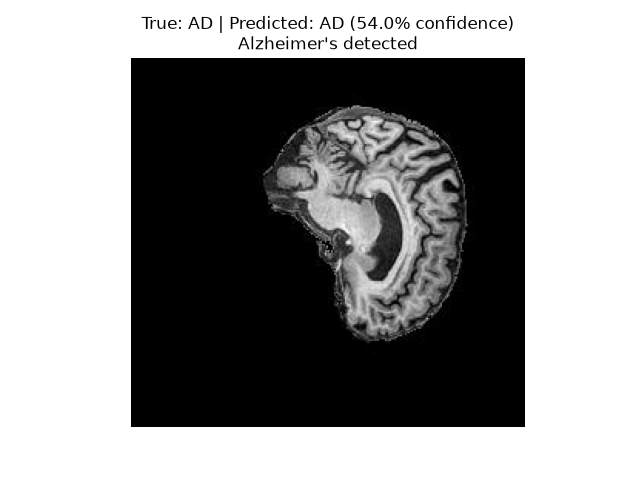
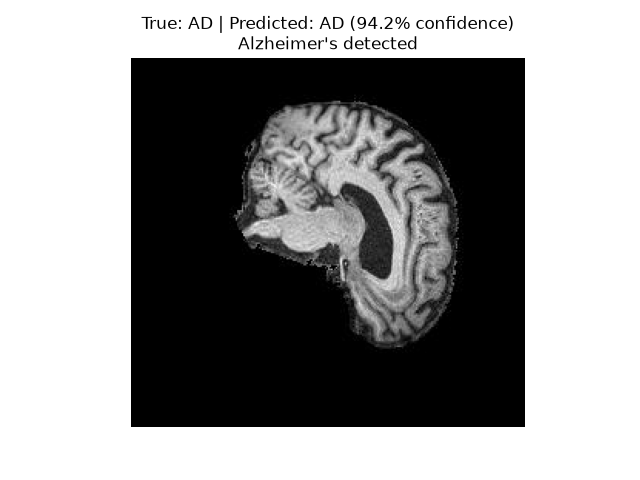
Completed report and created random incorrect image code

Changed region(s): [[0.3438, 0.1875, 0.75, 0.75], [0.5625, 0.0312, 0.625, 0.0625]]

diff --git a/recognition/ConvNeXt_48819101/random_incorrect_image.py b/recognition/ConvNeXt_48819101/random_incorrect_image.py
@@ -1,0 +1,69 @@
+import random
+import torch
+import matplotlib.pyplot as plt
+from PIL import Image
+
+from dataset import scan_split, ADNIDataset, class_to_idx
+from modules import ConvNeXt
+
+torch.backends.cudnn.enabled = False
+device = "cuda" if torch.cuda.is_available() else "cpu"
+
+def pred_to_class(number):
+    if number < 0.45:
+        return "NC"
+    return "AD"
+
+# Load the trained model
+model = ConvNeXt(num_classes=1)
+model.load_state_dict(torch.load("convnext.pt", map_location=device))
+model.to(device).eval()
+
+# Get test records and shuffle them
+records = scan_split("test")
+random.shuffle(records)
+
+# Find an incorrectly predicted image
+incorrect_record = None
+incorrect_prob = None
+incorrect_pred = None
+
+with torch.no_grad():
+    for record in records:
+        path, label, patient_id = record
+
+        x = ADNIDataset([record], img_size=224)[0][0].unsqueeze(0).to(device)
+
+        output = model(x)
+        prob_ad = torch.sigmoid(output).item()
+        pred = 1 if prob_ad >= 0.45 else 0
+
+        if pred != label:
+            incorrect_record = record
+            incorrect_prob = prob_ad
+            incorrect_pred = pred
+            break
+
+# Display the incorrectly predicted image
+if incorrect_record is not None:
+    path, label, patient_id = incorrect_record
+
+    confidence = incorrect_prob if incorrect_pred == 1 else 1 - incorrect_prob
+
+    plt.imshow(Image.open(path).convert("L"), cmap="gray")
+    plt.axis("off")
+
+    verdict = "Alzheimer's detected" if incorrect_pred == 1 else "No Alzheimer's detected"
+
+    plt.title(
+        f"Patient: {patient_id}\n"
+        f"True: {pred_to_class(label)} | "
+        f"Predicted: {pred_to_class(incorrect_pred)} "
+        f"({confidence:.1%} confidence)\n{verdict}"
+    )
+
+    plt.savefig("incorrect_prediction.png")
+    plt.show()
+
+else:
+    print("No incorrectly classified images found.")

diff --git a/recognition/README.md b/recognition/README.md
@@ -3,17 +3,44 @@
 **Benjamin Bateman**
 48819101
 
-## 1
+## 1 - Intro
 ### Algorithm
 This paper goes through the creation of a ConvNeXt model for classifying data with an ADNI dataset. The ConvNeXt algorithm is built on the ResNet-50 algorithm, but adjusted in ways that made vision transformers successful. It is a convolutional neural network (ConvNet), and was built to figure out if a pure ConvNet could match the output performance of vision tranformers like the Swin Transformer. In this paper it is used to classify MRI scans from the ADNI dataset as having Alzheimer's or not.
 
-The ResNet-50 model consists of a stack of 16 bottlenecked blocks, each computing a residual (F(x)) with each block being a 1x1, 3x3, then another 1x1 conv followed by a BatchNorm and ReLU. A skip connection (adding the input to the output of the block) allows gradients to permeate deep within the network. These blocks repeated (3, 4, 6, 3) times, with downsampling happening after each block has been repeated the set number of times. A global average pool plus a linear layer produces the final score.
+#### Model Overview
+The ResNet-50 model consists of a stack of 16 bottlenecked blocks, each computing a residual (F(x)) with each block being a 1x1, 3x3, then another 1x1 conv followed by a BatchNorm and ReLU. A skip connection (adding the input to the output of the block) allows gradients to permeate deep within the network. These blocks are repeated (3, 4, 6, 3) times, with downsampling happening after each block has been repeated the set number of times. A global average pool plus a linear layer produces the final score. This is used as the base comparison model against the ConvNeXt implementation.
 
 ConvNeXt keeps the bones of this, moving in the direction of the Swin Tranformer. It starts with changing the training algorithm and hyperparameters. The hyperparamters used for this model can be found later in the paper. The block ratio is then changed from (3, 4, 6, 3) to (3, 3, 9, 3) and the stem, which previously contained a 7x7 conv followed be a maxpool, is replaced with a 4x4 stride 4 conv followed by a layernorm. The 3x3 conv is replace with a 7x7 conv and placed first in the bottleneck block. Said block is also inverted, going from wide-narrow-wide to narrow-wide-narrow. GELU replaces ReLU with only one activation function being used per block, and LayerNorms replace the BatchNorms. Downsampling is also changed, moving to a separate 2x2 stride 2 conv that exists between layers.
 
-All information comes from 'A ConvNet for the 2020s' (https://arxiv.org/pdf/2201.03545), which saw an increase from 76.1% to 82.0% on the same compute for ImageNet.
+All information comes from 'A ConvNet for the 2020s'[1], which saw an increase from 76.1% to 82.0% on the same compute for ImageNet.
 
-## Section 3 — Feasability Check
+#### Process Overview
+
+1. **Dataloading** 
+- Data, as greyscale images, is loaded in batches of 64 from data/ADNI/AD_NC/{test\train}/{AD\NC}
+- Data Augmentation - Image resized to 224x224, Random Horizontal Flip, Affine (5 degree, 3 percent shift)
+- Normalise mean and standard deviation to (0.5, 0.5, 0.5), (0.5, 0.5, 0.5)
+- Replicate single-channel greyscale over 3 channels
+
+2. **Model**
+- Batches are run through the model, described in the Model Overview above
+
+3. **Train**
+- Evaluates using BCEWithLogitsLoss() and gets confidence using the sigmoid function (evaluate found in predict.py)
+- AdamW optimiser, no weight decay on normal parameters
+- Linear warmup, then cosine decay
+- AMP scaler on cuda
+- Custom label smoothing on batches
+- Mixup
+- Stores the best result by validation-set accuracy
+
+4. **Predict**
+- Predicts slice and patient accuracy
+- Finds best cutoff slice to be used to send patient to doctor's review
+
+
+
+## 2 — Feasability Check
 ### User Need, Scope & Acceptance Criteria
 Doctors, more specifically those involved in MRI screening and diagnosing Alzheimer's disease, are the primary user for this prototype. False negatives are far more detrimental than false positives, so the prototype will sort MRI scans into three categories: confidently positive, doctor’s review, and confidently negative. With this in mind, the following acceptance criteria will be met:
 - A minimum 0.8 test accuracy on AD vs CN (Alzheimer’s Disease vs Cognitively Normal)
@@ -28,7 +55,7 @@ The ADNI dataset found on Rangpur has data already split into training and testi
 ConvNeXt, a neural network achieved by applying choices which made the Swin Transformer successful onto ResNet-50, will be the primary model used for training. In choosing this model, I am choosing the hard difficulty band for the project. As ConvNeXt aims to be an improvement on ResNet-50, ResNet-50 will be used as a baseline model to compare to. 
 
 To get confidence scores for the classifications, the sigmoid activation function will be used. This function squeezes outputs, so that those closer to 0 or 1 are more confident predictions.
-#### Preliminary Feasibi    lity Evidence
+#### Preliminary Feasibility Evidence
 There are 10400 AD and 11120 NC training images and 4460 AD and 4540 NC testing images. All images are 256x240 pixels. All images are greyscale, meaning only 1 input channel. 
 Resources were estimated using batches of size 8, 16, 32, 64, and 128 testing on the 27.8 million parameters of torchvision’s built-in model convnext_tiny with an AdamW optimiser run on three optimizer steps. This was run on the aforementioned AMD GPU.
 bs=8: peak VRAM=1321 MiB
@@ -41,37 +68,204 @@ With these numbers, I will likely train on either a batch size of 64 or 128, tes
 Patient level data leakage is possible, where a patient has slices in both test and training sets, so an id check will need to be done to ensure this hasn’t occurred in the provided data. 
 As I will be running the training locally, my budget is entirely related to the AMD GPU data shown above. The next planned experiment is to train ResNet-50 on the training data, recording VRAM usage and time. If I am unable to train locally due to AMD rocm bugs (some issues with batchnorm2d), I will fallback to training on Rangpur. If I am unable to figure out the ConvNeXt programming itself, I will switch to doing the improved 2D Improved U-NET HipMRI task instead.
 
-## ResNet-50:
-best val auc 0.8476 @ epoch 27
----------------CUTOFF = 0.5 ---------------------
-test: {'acc': np.float64(0.7579646017699115), 'ad_recall': np.float64(0.6767857142857143), 'nc_recall': np.float64(0.8377192982456141), 'auc': 0.824752702067669, 'fn_rate': np.float64(0.32321428571428573)}
-test loss: 0.9186
+## 3 - Dependencies
+### Python Libraries
 
-Before updating training: {'acc': 0.7093, 'ad_recall': 0.7804, 'nc_recall': 0.6395, 'auc': 0.7876, 'fn_rate': 0.2196}
+To run main files:
+torch 2.9.1
+python 3.12.7
+torchvision 0.24.1
+matplotlib 3.11.2
+numpy 2.5.3
+Pillow 12.3.0
+scikit-learn 1.9.1
 
-After updating trining: {'acc': 0.7586, 'ad_recall': 0.7384, 'nc_recall': 0.7785, 'auc': 0.8248, 'fn_rate': 0.2616}
+Additionally to run prelim_testing.ipynb:
+ipykernel 7.3.0
 
-## ConvNeXt
-poch: 1 | train loss 0.6959889016690708 acc: 0.4993489583333333 | time: 157.44596481323242
-{'acc': np.float64(0.4955357142857143), 'ad_recall': np.float64(1.0), 'nc_recall': np.float64(0.0), 'auc': 0.5092609423582876, 'fn_rate': np.float64(0.0)}
----------------CUTOFF = 0.5 ---------------------
-epoch: 2 | train loss 0.6938918678178674 acc: 0.5113467261904762 | time: 313.89177918434143
-{'acc': np.float64(0.5165178571428571), 'ad_recall': np.float64(0.6977477477477477), 'nc_recall': np.float64(0.33849557522123896), 'auc': 0.5304126803794946, 'fn_rate': np.float64(0.3022522522522523)}
----------------CUTOFF = 0.5 ---------------------
-epoch: 3 | train loss 0.6941177325234527 acc: 0.5114862351190477 | time: 470.547616481781
-{'acc': np.float64(0.5158482142857143), 'ad_recall': np.float64(0.08198198198198198), 'nc_recall': np.float64(0.9420353982300885), 'auc': 0.5451234752451567, 'fn_rate': np.float64(0.918018018018018)}
----------------CUTOFF = 0.5 ---------------------
-epoch: 4 | train loss 0.7056000704566637 acc: 0.5056733630952381 | time: 627.708505153656
-{'acc': np.float64(0.4955357142857143), 'ad_recall': np.float64(1.0), 'nc_recall': np.float64(0.0), 'auc': 0.5296995336044008, 'fn_rate': np.float64(0.0)}
----------------CUTOFF = 0.5 ---------------------
-epoch: 5 | train loss 0.6988065104399409 acc: 0.5035342261904762 | time: 784.7627470493317
-{'acc': np.float64(0.5044642857142857), 'ad_recall': np.float64(0.0), 'nc_recall': np.float64(1.0), 'auc': 0.5460158056286375, 'fn_rate': np.float64(1.0)}
+As this was trained on an AMD Radeon 7800XT, rocm 7.2.1 was used, but is not necessary with an NVIDIA GPU.
+### Reproducibility
+Use random seed of 123 for python random.seed, torch.manual_seed and torch.cuda.manual_seed
 
-1st proper training to 40 epochs it reached just 0.7 val accuracy and 0.7893 best auc
-This transalated to a 0.68 test accuracy and 0.75 auc
+Create a -venv environment and pip install all above packages and versions.
 
-Tried again with drop path = 0.1, 60 epochs and a learning rate back at 4e-3
+Within the environemnt, run: 
+python train.py
+python predict.py
 
-tried again at layer norm = 1e-6, but it never learned anything (stayed at train loss of 0.69)
-tried again at layer norm = 1e-3
-Added mixup
+For additional evaluation, run:
+python random_images_predict.py
+python overfit_testing.py
+python confidence_analysis.py
+
+## 4 - Data-prepocessing
+### Train, val, test split
+It was vital to ensure that there was no patient-level data leakage between train, test or validation sets. The data is split by patient-id_slice-number, so all patient ids are separated and isolated to each set. It was verified that no patient overlap was pre-existing in the provided test and training sets.
+
+In dataset.py, the val set is created by splitting off 15% of the train set's patient ids. These patient ids were split evenly into AD and NC to match the train set AD/NC ratios. After all sets were made, an additional assert was used to make sure of no data leakage.
+
+This leaves an image distribution of:
+train set - 18292
+val set - 3228
+test set - 9000
+
+This gives a comprehensive test set, which is important when evaluating the performance of a medical imaging model that may be used with real patients. The validation set is still large enough to be used to tune the model well, and the train set still has over double the images of the test set, leaving enough to train accurately.
+
+### Data Augmentation
+Images have random horizontal flips and affine applied to them. Other data augmentation, like random erasing, was tried, but did not improve the model. The 1 channel greyscale images were replicated to 3 channels to better align with the ConvNeXt model start.
+
+## 5 - Training Process
+
+Many training runs were attempted to get the model to train at or above the 0.8 benchmark, between which many changes were made to the dataloading and hyperparameters.
+
+### Data Loading
+Random Erasing, which was used in the paper's training for ImageNet, majorly slowed down the training for ADNI, with a model that learned nothing and stayed around a 0.69 loss for the first 10 epochs. Subsequently, Random Erasing was removed.
+
+Drawing the validation set from the train set produced better results than pulling it from the test set. Patient ids were kept separate in all sets, so the increase of around 0.01 was perhaps a lucky boost. Likely where the val set is drawn from makes no difference.
+
+Mixup ([3]) was added, which also slightly increased performance by about 0.005. Batch size was kept at 64 due to hardware requirements. A learning rate too high (around 1e-3) produced unstable results and did not converge smoothly. Other parameters were tuned, but with limited compute time multiple changes often had to be made at once, which meant an in-depth analysis of how each paramtere affected model output was not possible. 
+
+### Final Hyperparameters
+The ConvNeXt and base ResNet-50 models were trained on the following hyperparameters:
+
+EPOCHS = 40
+
+WARMUP_EPOCHS = 4
+
+LR = 5e-4
+
+WD = 0.05
+
+LABEL_SMOOTHING = 0.05   
+
+BATCH=64
+
+CUTOFF = 0.5
+
+DROP_PATH = 0.1
+
+MIXUP_ALPHA = 0.2   
+
+MIXUP_PROB = 0.15
+
+## 6 - Results
+
+The models were trained on per-slice data, but a slice only represents a small subsection of a patient's MRI scan. Per-patient results were also recorded, taken by averaging the confidences of all slices from a patient's id and treating them as one large label.
+
+### Example Inputs and Graphs
+
+#### Example Slice Input
+![](../prediction.png)
+Above is a correct prediction on a random test image input.
+
+#### ConvNeXt train vs val curves for accuracy and loss
+![](../curves.png)
+The fact that test accuracy is so much lower than val accuracy suggests that somehow the model is overfitting to the validation data. There are many possible reasons for the discrepancy, including sample population similarity and sampling variations. A train accuracy so high also implies that some degree of overfitting is occuring while training. 
+
+#### AUC-ROC Curve for Slice Data on Both Models
+| ConvNeXt | ResNet-50 |
+| :--: | :--: |
+| ![](../roc.png) | ![](../roc_resnet.png) |
+
+The dots on the graphs above represent cutoff points for determining if a slice is AD or NC.
+
+#### Convolution Matrices on ConvNeXt and ResNet-50
+| Model | Patient Data | Slice Data |
+| :--: | :--: | :--: |
+| ConvNeXt | ![](../cm_patient.png) | ![](../cm_slice.png) |
+| ResNet | ![](../cm_patient_resnet.png) | ![](../cm_slice_resnet.png) |
+
+
+
+### ConvNeXt Comparison Against ResNet-50
+#### Slice-level statistics
+| Model | accuracy | ad_recall | nc_recall | ad_precision | nc_precision | macro_f1 | auc |
+| :--: | :--: | :--: | :--: | :--: | :--: | :--: | :--: |
+| ResNet-50 | 0.7669 | 0.6711 | 0.861 | 0.8259 | 0.7271 | 0.7644 | 0.8358 |
+| ConvNeXt | 0.7368 | 0.6182 | 0.8533 | 0.8054 | 0.6946 | 0.7327 | 0.8061 |
+
+#### Patient-level statistics
+| Model | accuracy | ad_recall | nc_recall | ad_precision | nc_precision | macro_f1 | auc |
+| :--: | :--: | :--: | :--: | :--: | :--: | :--: | :--: |
+| ResNet-50 | 0.7844 | 0.6771 | 0.8899 | 0.858 | 0.7372 | 0.7816 | 0.8712 |
+| ConvNeXt | 0.7822 | 0.6188 | 0.9075 | 0.8679 | 0.7079 | 0.7589 | 0.8467 |
+
+### Resource Profiling
+| Model | Peak GPU VRAM | Parameter Count | Evaluate Time | Time to Train |
+| :--: | :--: | :--: | :--: | :--: |
+| ResNet-50 | 3.06 GiB | 23.59M | 38.5s | 123m 36s |
+| ConvNeXt | 4.13 GiB | 27.82M | 49.3s | 99m 59s | 
+
+### Doctor's Review Experiment
+An experiment was run in which data was split up into 'ad' 'review' and 'nc'. This data was split by the following rules. Per patient, if over 30% of slices were flagged as AD, it was flagged as AD. If etween 10 and 30% of slices were flagged as AD, it was sent to doctor's review. Otherwise it was flagged as NC.
+
+Using this method, the missed AD dropped from 0.3229 to 0.175. In doing this, 0.260 of the NC set was flagged as either AD or review. This is still not good enough, as thousands of people would both be getting falsely diagnosed and faslely undiagnosed. Overall this is a positive, as more Alzheimer's patients would be getting diagnosed. More tests could be run to improve on this metric.
+
+### Acceptance Criteria
+| Criteria | Checked? |
+| :--: | :--: |
+| 0.8 test accuracy | No |
+| Evaluation in under a minute | Yes |
+| Training in under 4 hours | Yes |
+| Max VRAM under 14.5 GB | Yes |
+| False negative rate under 0.05 | No |
+
+## 7 - Analysis
+
+### Confidence Analysis
+
+A confidence analysis was run, comparing the average confidence on correct and wrong predictions.
+mean confidence, all:     0.8794  (confidence - accuracy = +0.1152, positive = overconfident)
+mean confidence, correct: 0.8971  (n=6878)
+mean confidence, wrong:   0.8219  (n=2122)
+wrong predictions with confidence >= 0.9: 916
+
+Of the 2122 misclassified slices, 916 were confidently wrong. An average confidence of 0.8219 on wrong predictions is 0.0752 less than on correct predictions which, while statistically significant, is quite high and difficult to adjust for. The model is likely too overconfident in general, so more training and regularisation methods should be used in the future.
+
+More code was run (failure_autopsy.py) which compiled the mean P(AD) and number of slices called AD for incorrectly predicted patients. The threshold used to call it AD was 45% confident (that is 55% confident it is NC). The lowest 5 means were as follows:
+
+Patient 1398870: mean P(AD) 0.039, 0/20 slices called AD
+
+Patient 405621: mean P(AD) 0.045, 0/20 slices called AD
+
+Patient 1175356: mean P(AD) 0.045, 0/20 slices called AD
+
+Patient 1017725: mean P(AD) 0.049, 0/20 slices called AD
+
+Patient 1175362: mean P(AD) 0.049, 0/20 slices called AD
+
+
+And the average mean P(AD) was 0.2136. This implies that of the mislabelled Alzheimer's patients, many were overconfidnetly wrong. This backs up what we found above in the confidence analysis test. It is possible that the overfitting observed in section 5 led to such overconfident predictions.
+
+## Failure Autopsy
+| NC pred AD | AD pred NC |
+|:--:|:--:|
+|![](../incorrect_prediction_2.png)|![](../incorrect_prediction_1.png)|
+|![](../incorrect_prediction_4.png)|![](../incorrect_prediction_3.png)|
+
+Correct Prediction:
+![](../prediction.png)
+The top right image above appears to be incredibly low resolution, with the brain stem cut off. This may be a part of why it was misclassified. All slices are confident enough that unless other slices within the scan are showing clear (according to the model) signs of Alzheimer's, the doctor's review system proposed would not catch them. 
+
+## Recommendation
+ConvNeXt as a model appears to benefit large datasets, like ImageNet, far more than smaller datasets like the ADNI trained here. The model saw no marked improvement over standard ResNet-50 on this data, performing worse in every metric bar 'nc_called_ad'. Neither model achieved 0.8 test accuracy on slice or patient data, though 0.784 is quite close. 
+
+I would recommend first that a larger dataset be accquired before attempting to retrain on ConvNeXt. In lieu of a larger dataset, I would recommend trying to adjust the numbers in the 'patient_rule' function of predict.py to try and flag as many Alzheimer's patients as possible.
+
+If you are confident in continuing to use ConvNeXt or ResNet-50, both of which I discourage, I would suggest finding ways to better regularise the data and prevent overconfident guesses.
+
+## 8 - Artificial Intelligence Usage Disclosure
+
+Claude was the only LLM used while making this model. It aided in model scaffolding, the transition from my ResNet-18 implementation to ResNet-50, and highlighting where in the paper 'A ConvNet for the 2020s' they mention the changes made to ResNet. It was uesd to help write the mixup and layernorm part of the ConvNeXt code. It was also used to help adjust the training algorithm and to get the evaluation data used in predict.py. It was also used to help quickly write the additional evaluation files. Again all code was double checked. AI was at no point used in writing this report and all work here is my own.
+
+All code from AI was individually verified before being used within the model. None of it being blindly copy-pasted. When getting it to highlight the changes the paper made, I asked for specific references and coroborated them myself before implementing them. 
+
+Hyperparameter weights were drawn from the paper initially and adjusted by me, so no AI was used in tuning the model.
+
+# References
+[1] 'A ConvNet for the 2020s' - https://arxiv.org/pdf/2201.03545
+
+[2] 'Deep Residual Learning for Image Recognition' - https://arxiv.org/pdf/1512.03385
+
+[3] 'mixup: Beyond Empirical Risk Minimization' - https://arxiv.org/pdf/1710.09412
+ 
